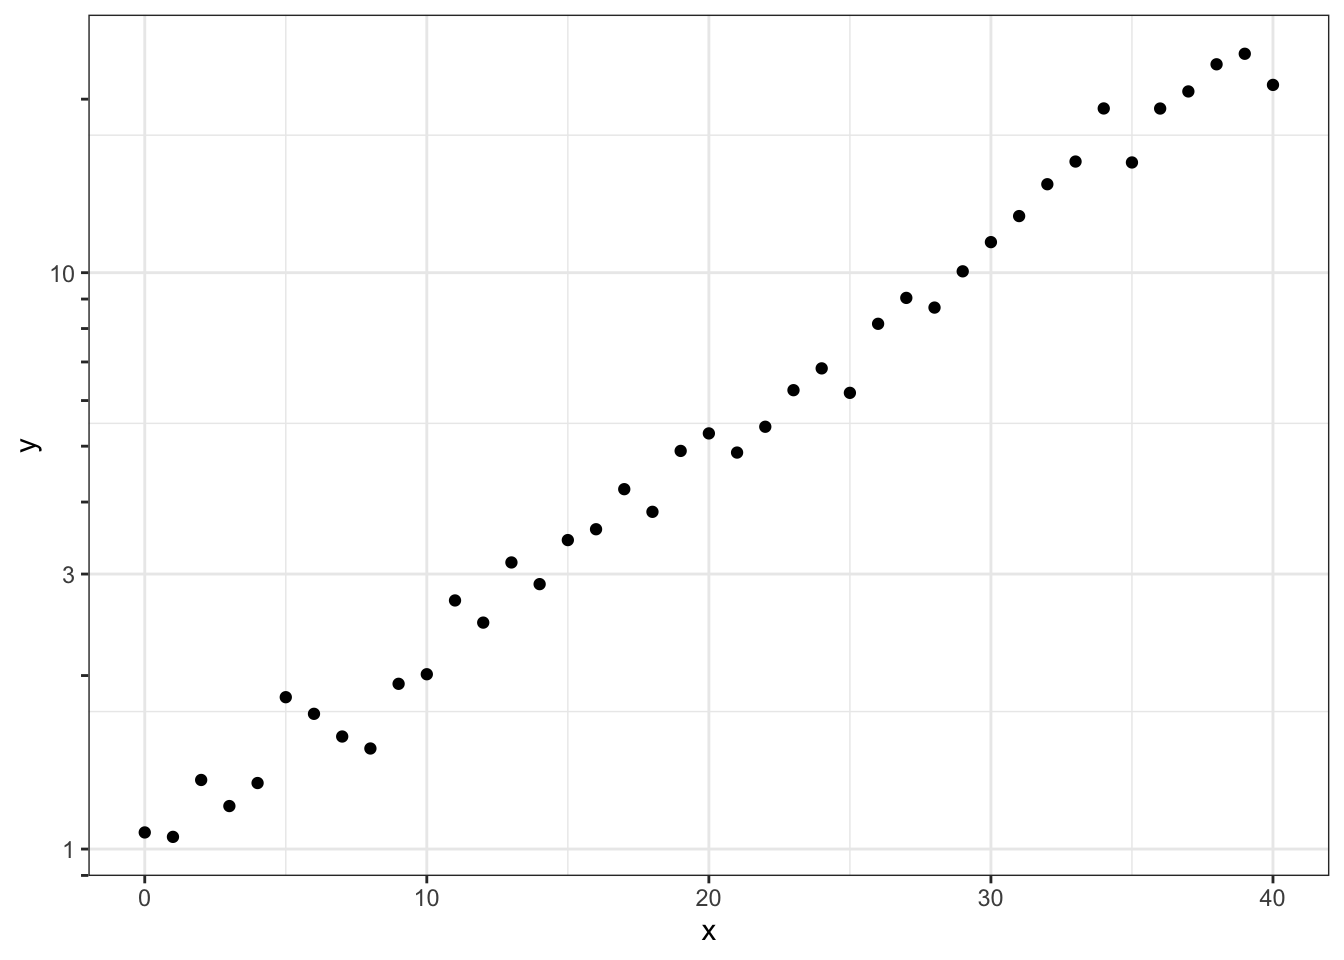
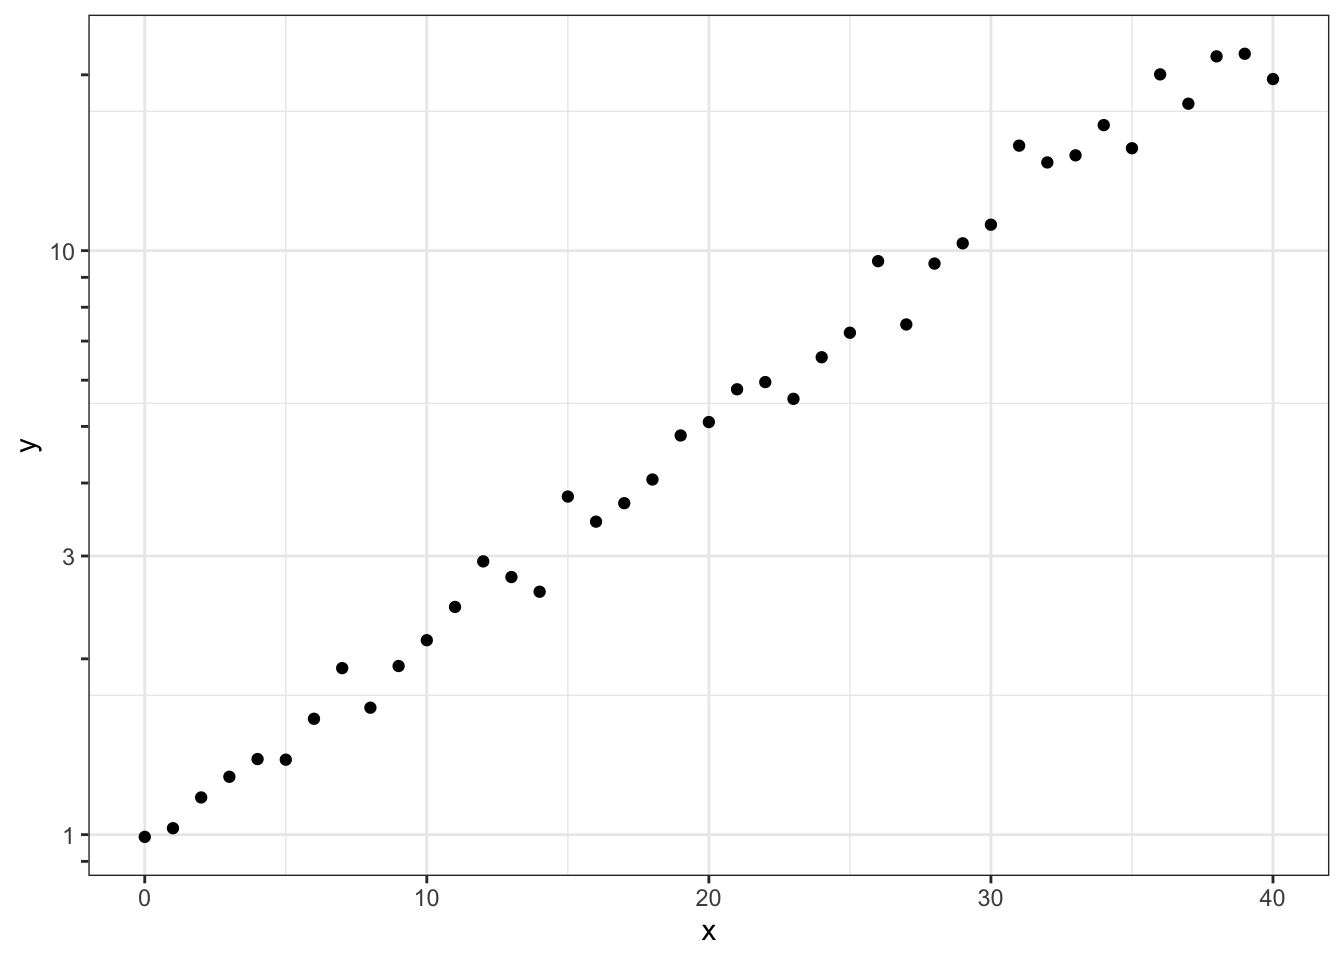
new exercise

diff --git a/docs/materials/positconf2024-themes.html b/docs/materials/positconf2024-themes.html
@@ -335,12 +335,12 @@ pre > code.sourceCode > span > a:first-child::before { text-decoration: underlin
 <p>For logarithmic axes, there is a new guide <code>guide_axis_logticks()</code> that places minor ticks with log spacing.</p>
 <div class="cell">
 <div class="sourceCode cell-code" id="cb26"><pre class="sourceCode r code-with-copy"><code class="sourceCode r"><span id="cb26-1"><a href="#cb26-1" aria-hidden="true" tabindex="-1"></a><span class="co"># made-up data that follows exponential growth</span></span>
-<span id="cb26-2"><a href="#cb26-2" aria-hidden="true" tabindex="-1"></a>data <span class="ot">&lt;-</span> <span class="fu">tibble</span>(<span class="at">x =</span> <span class="dv">0</span><span class="sc">:</span><span class="dv">40</span>) <span class="sc">|&gt;</span></span>
+<span id="cb26-2"><a href="#cb26-2" aria-hidden="true" tabindex="-1"></a>exp_data <span class="ot">&lt;-</span> <span class="fu">tibble</span>(<span class="at">x =</span> <span class="dv">0</span><span class="sc">:</span><span class="dv">40</span>) <span class="sc">|&gt;</span></span>
 <span id="cb26-3"><a href="#cb26-3" aria-hidden="true" tabindex="-1"></a>  <span class="fu">mutate</span>(</span>
 <span id="cb26-4"><a href="#cb26-4" aria-hidden="true" tabindex="-1"></a>    <span class="at">y =</span> <span class="fu">exp</span>(<span class="fl">0.08</span> <span class="sc">*</span> x <span class="sc">+</span> <span class="fl">0.1</span> <span class="sc">*</span> <span class="fu">rnorm</span>(<span class="fu">length</span>(x)))</span>
 <span id="cb26-5"><a href="#cb26-5" aria-hidden="true" tabindex="-1"></a>  )</span>
 <span id="cb26-6"><a href="#cb26-6" aria-hidden="true" tabindex="-1"></a></span>
-<span id="cb26-7"><a href="#cb26-7" aria-hidden="true" tabindex="-1"></a><span class="fu">ggplot</span>(data, <span class="fu">aes</span>(x, y)) <span class="sc">+</span></span>
+<span id="cb26-7"><a href="#cb26-7" aria-hidden="true" tabindex="-1"></a><span class="fu">ggplot</span>(exp_data, <span class="fu">aes</span>(x, y)) <span class="sc">+</span></span>
 <span id="cb26-8"><a href="#cb26-8" aria-hidden="true" tabindex="-1"></a>  <span class="fu">geom_point</span>() <span class="sc">+</span></span>
 <span id="cb26-9"><a href="#cb26-9" aria-hidden="true" tabindex="-1"></a>  <span class="fu">theme_bw</span>() <span class="sc">+</span></span>
 <span id="cb26-10"><a href="#cb26-10" aria-hidden="true" tabindex="-1"></a>  <span class="fu">scale_y_log10</span>(</span>
@@ -357,7 +357,7 @@ pre > code.sourceCode > span > a:first-child::before { text-decoration: underlin
 </div>
 <p>However, as you can see, the axis ticks don’t line up with the minor grid lines. Therefore, it is best to just turn off the minor grid lines.</p>
 <div class="cell">
-<div class="sourceCode cell-code" id="cb27"><pre class="sourceCode r code-with-copy"><code class="sourceCode r"><span id="cb27-1"><a href="#cb27-1" aria-hidden="true" tabindex="-1"></a><span class="fu">ggplot</span>(data, <span class="fu">aes</span>(x, y)) <span class="sc">+</span></span>
+<div class="sourceCode cell-code" id="cb27"><pre class="sourceCode r code-with-copy"><code class="sourceCode r"><span id="cb27-1"><a href="#cb27-1" aria-hidden="true" tabindex="-1"></a><span class="fu">ggplot</span>(exp_data, <span class="fu">aes</span>(x, y)) <span class="sc">+</span></span>
 <span id="cb27-2"><a href="#cb27-2" aria-hidden="true" tabindex="-1"></a>  <span class="fu">geom_point</span>() <span class="sc">+</span></span>
 <span id="cb27-3"><a href="#cb27-3" aria-hidden="true" tabindex="-1"></a>  <span class="fu">theme_bw</span>() <span class="sc">+</span></span>
 <span id="cb27-4"><a href="#cb27-4" aria-hidden="true" tabindex="-1"></a>  <span class="fu">scale_y_log10</span>(</span>
@@ -395,6 +395,23 @@ pre > code.sourceCode > span > a:first-child::before { text-decoration: underlin
 <span id="cb29-3"><a href="#cb29-3" aria-hidden="true" tabindex="-1"></a>  <span class="fu">facet_wrap</span>(<span class="sc">~</span>cut)</span></code><button title="Copy to Clipboard" class="code-copy-button"><i class="bi"></i></button></pre></div>
 <div class="cell-output-display">
 <p><img src="positconf2024-themes_files/figure-html/unnamed-chunk-22-1.png" class="img-fluid" width="672"></p>
+</div>
+</div>
+<p>Adjust the minor grid lines in this plot to match the log ticks.</p>
+<div class="cell">
+<div class="sourceCode cell-code" id="cb30"><pre class="sourceCode r code-with-copy"><code class="sourceCode r"><span id="cb30-1"><a href="#cb30-1" aria-hidden="true" tabindex="-1"></a><span class="fu">ggplot</span>(exp_data, <span class="fu">aes</span>(x, y)) <span class="sc">+</span></span>
+<span id="cb30-2"><a href="#cb30-2" aria-hidden="true" tabindex="-1"></a>  <span class="fu">geom_point</span>() <span class="sc">+</span></span>
+<span id="cb30-3"><a href="#cb30-3" aria-hidden="true" tabindex="-1"></a>  <span class="fu">theme_bw</span>() <span class="sc">+</span></span>
+<span id="cb30-4"><a href="#cb30-4" aria-hidden="true" tabindex="-1"></a>  <span class="fu">scale_y_log10</span>(</span>
+<span id="cb30-5"><a href="#cb30-5" aria-hidden="true" tabindex="-1"></a>    <span class="at">guide =</span> <span class="fu">guide_axis_logticks</span>(</span>
+<span id="cb30-6"><a href="#cb30-6" aria-hidden="true" tabindex="-1"></a>      <span class="co"># make major and minor ticks all the same length</span></span>
+<span id="cb30-7"><a href="#cb30-7" aria-hidden="true" tabindex="-1"></a>      <span class="at">long =</span> <span class="dv">1</span>,</span>
+<span id="cb30-8"><a href="#cb30-8" aria-hidden="true" tabindex="-1"></a>      <span class="at">mid =</span> <span class="dv">1</span>,</span>
+<span id="cb30-9"><a href="#cb30-9" aria-hidden="true" tabindex="-1"></a>      <span class="at">short =</span> <span class="dv">1</span></span>
+<span id="cb30-10"><a href="#cb30-10" aria-hidden="true" tabindex="-1"></a>    )</span>
+<span id="cb30-11"><a href="#cb30-11" aria-hidden="true" tabindex="-1"></a>  )</span></code><button title="Copy to Clipboard" class="code-copy-button"><i class="bi"></i></button></pre></div>
+<div class="cell-output-display">
+<p><img src="positconf2024-themes_files/figure-html/unnamed-chunk-23-1.png" class="img-fluid" width="672"></p>
 </div>
 </div>
 </section>

diff --git a/materials/positconf2024-themes.html b/materials/positconf2024-themes.html
@@ -335,12 +335,12 @@ pre > code.sourceCode > span > a:first-child::before { text-decoration: underlin
 <p>For logarithmic axes, there is a new guide <code>guide_axis_logticks()</code> that places minor ticks with log spacing.</p>
 <div class="cell">
 <div class="sourceCode cell-code" id="cb26"><pre class="sourceCode r code-with-copy"><code class="sourceCode r"><span id="cb26-1"><a href="#cb26-1" aria-hidden="true" tabindex="-1"></a><span class="co"># made-up data that follows exponential growth</span></span>
-<span id="cb26-2"><a href="#cb26-2" aria-hidden="true" tabindex="-1"></a>data <span class="ot">&lt;-</span> <span class="fu">tibble</span>(<span class="at">x =</span> <span class="dv">0</span><span class="sc">:</span><span class="dv">40</span>) <span class="sc">|&gt;</span></span>
+<span id="cb26-2"><a href="#cb26-2" aria-hidden="true" tabindex="-1"></a>exp_data <span class="ot">&lt;-</span> <span class="fu">tibble</span>(<span class="at">x =</span> <span class="dv">0</span><span class="sc">:</span><span class="dv">40</span>) <span class="sc">|&gt;</span></span>
 <span id="cb26-3"><a href="#cb26-3" aria-hidden="true" tabindex="-1"></a>  <span class="fu">mutate</span>(</span>
 <span id="cb26-4"><a href="#cb26-4" aria-hidden="true" tabindex="-1"></a>    <span class="at">y =</span> <span class="fu">exp</span>(<span class="fl">0.08</span> <span class="sc">*</span> x <span class="sc">+</span> <span class="fl">0.1</span> <span class="sc">*</span> <span class="fu">rnorm</span>(<span class="fu">length</span>(x)))</span>
 <span id="cb26-5"><a href="#cb26-5" aria-hidden="true" tabindex="-1"></a>  )</span>
 <span id="cb26-6"><a href="#cb26-6" aria-hidden="true" tabindex="-1"></a></span>
-<span id="cb26-7"><a href="#cb26-7" aria-hidden="true" tabindex="-1"></a><span class="fu">ggplot</span>(data, <span class="fu">aes</span>(x, y)) <span class="sc">+</span></span>
+<span id="cb26-7"><a href="#cb26-7" aria-hidden="true" tabindex="-1"></a><span class="fu">ggplot</span>(exp_data, <span class="fu">aes</span>(x, y)) <span class="sc">+</span></span>
 <span id="cb26-8"><a href="#cb26-8" aria-hidden="true" tabindex="-1"></a>  <span class="fu">geom_point</span>() <span class="sc">+</span></span>
 <span id="cb26-9"><a href="#cb26-9" aria-hidden="true" tabindex="-1"></a>  <span class="fu">theme_bw</span>() <span class="sc">+</span></span>
 <span id="cb26-10"><a href="#cb26-10" aria-hidden="true" tabindex="-1"></a>  <span class="fu">scale_y_log10</span>(</span>
@@ -357,7 +357,7 @@ pre > code.sourceCode > span > a:first-child::before { text-decoration: underlin
 </div>
 <p>However, as you can see, the axis ticks don’t line up with the minor grid lines. Therefore, it is best to just turn off the minor grid lines.</p>
 <div class="cell">
-<div class="sourceCode cell-code" id="cb27"><pre class="sourceCode r code-with-copy"><code class="sourceCode r"><span id="cb27-1"><a href="#cb27-1" aria-hidden="true" tabindex="-1"></a><span class="fu">ggplot</span>(data, <span class="fu">aes</span>(x, y)) <span class="sc">+</span></span>
+<div class="sourceCode cell-code" id="cb27"><pre class="sourceCode r code-with-copy"><code class="sourceCode r"><span id="cb27-1"><a href="#cb27-1" aria-hidden="true" tabindex="-1"></a><span class="fu">ggplot</span>(exp_data, <span class="fu">aes</span>(x, y)) <span class="sc">+</span></span>
 <span id="cb27-2"><a href="#cb27-2" aria-hidden="true" tabindex="-1"></a>  <span class="fu">geom_point</span>() <span class="sc">+</span></span>
 <span id="cb27-3"><a href="#cb27-3" aria-hidden="true" tabindex="-1"></a>  <span class="fu">theme_bw</span>() <span class="sc">+</span></span>
 <span id="cb27-4"><a href="#cb27-4" aria-hidden="true" tabindex="-1"></a>  <span class="fu">scale_y_log10</span>(</span>
@@ -395,6 +395,23 @@ pre > code.sourceCode > span > a:first-child::before { text-decoration: underlin
 <span id="cb29-3"><a href="#cb29-3" aria-hidden="true" tabindex="-1"></a>  <span class="fu">facet_wrap</span>(<span class="sc">~</span>cut)</span></code><button title="Copy to Clipboard" class="code-copy-button"><i class="bi"></i></button></pre></div>
 <div class="cell-output-display">
 <p><img src="positconf2024-themes_files/figure-html/unnamed-chunk-22-1.png" class="img-fluid" width="672"></p>
+</div>
+</div>
+<p>Adjust the minor grid lines in this plot to match the log ticks.</p>
+<div class="cell">
+<div class="sourceCode cell-code" id="cb30"><pre class="sourceCode r code-with-copy"><code class="sourceCode r"><span id="cb30-1"><a href="#cb30-1" aria-hidden="true" tabindex="-1"></a><span class="fu">ggplot</span>(exp_data, <span class="fu">aes</span>(x, y)) <span class="sc">+</span></span>
+<span id="cb30-2"><a href="#cb30-2" aria-hidden="true" tabindex="-1"></a>  <span class="fu">geom_point</span>() <span class="sc">+</span></span>
+<span id="cb30-3"><a href="#cb30-3" aria-hidden="true" tabindex="-1"></a>  <span class="fu">theme_bw</span>() <span class="sc">+</span></span>
+<span id="cb30-4"><a href="#cb30-4" aria-hidden="true" tabindex="-1"></a>  <span class="fu">scale_y_log10</span>(</span>
+<span id="cb30-5"><a href="#cb30-5" aria-hidden="true" tabindex="-1"></a>    <span class="at">guide =</span> <span class="fu">guide_axis_logticks</span>(</span>
+<span id="cb30-6"><a href="#cb30-6" aria-hidden="true" tabindex="-1"></a>      <span class="co"># make major and minor ticks all the same length</span></span>
+<span id="cb30-7"><a href="#cb30-7" aria-hidden="true" tabindex="-1"></a>      <span class="at">long =</span> <span class="dv">1</span>,</span>
+<span id="cb30-8"><a href="#cb30-8" aria-hidden="true" tabindex="-1"></a>      <span class="at">mid =</span> <span class="dv">1</span>,</span>
+<span id="cb30-9"><a href="#cb30-9" aria-hidden="true" tabindex="-1"></a>      <span class="at">short =</span> <span class="dv">1</span></span>
+<span id="cb30-10"><a href="#cb30-10" aria-hidden="true" tabindex="-1"></a>    )</span>
+<span id="cb30-11"><a href="#cb30-11" aria-hidden="true" tabindex="-1"></a>  )</span></code><button title="Copy to Clipboard" class="code-copy-button"><i class="bi"></i></button></pre></div>
+<div class="cell-output-display">
+<p><img src="positconf2024-themes_files/figure-html/unnamed-chunk-23-1.png" class="img-fluid" width="672"></p>
 </div>
 </div>
 </section>

diff --git a/docs/materials/positconf2024-themes-solutions.html b/docs/materials/positconf2024-themes-solutions.html
@@ -197,6 +197,34 @@ pre > code.sourceCode > span > a:first-child::before { text-decoration: underlin
 <p><img src="positconf2024-themes-solutions_files/figure-html/unnamed-chunk-6-1.png" class="img-fluid" width="672"></p>
 </div>
 </div>
+<p>Adjust the minor grid lines in this plot to match the log ticks.</p>
+<div class="cell">
+<div class="sourceCode cell-code" id="cb7"><pre class="sourceCode r code-with-copy"><code class="sourceCode r"><span id="cb7-1"><a href="#cb7-1" aria-hidden="true" tabindex="-1"></a><span class="co"># made-up data that follows exponential growth</span></span>
+<span id="cb7-2"><a href="#cb7-2" aria-hidden="true" tabindex="-1"></a>exp_data <span class="ot">&lt;-</span> <span class="fu">tibble</span>(<span class="at">x =</span> <span class="dv">0</span><span class="sc">:</span><span class="dv">40</span>) <span class="sc">|&gt;</span></span>
+<span id="cb7-3"><a href="#cb7-3" aria-hidden="true" tabindex="-1"></a>  <span class="fu">mutate</span>(</span>
+<span id="cb7-4"><a href="#cb7-4" aria-hidden="true" tabindex="-1"></a>    <span class="at">y =</span> <span class="fu">exp</span>(<span class="fl">0.08</span> <span class="sc">*</span> x <span class="sc">+</span> <span class="fl">0.1</span> <span class="sc">*</span> <span class="fu">rnorm</span>(<span class="fu">length</span>(x)))</span>
+<span id="cb7-5"><a href="#cb7-5" aria-hidden="true" tabindex="-1"></a>  )</span>
+<span id="cb7-6"><a href="#cb7-6" aria-hidden="true" tabindex="-1"></a></span>
+<span id="cb7-7"><a href="#cb7-7" aria-hidden="true" tabindex="-1"></a><span class="fu">ggplot</span>(exp_data, <span class="fu">aes</span>(x, y)) <span class="sc">+</span></span>
+<span id="cb7-8"><a href="#cb7-8" aria-hidden="true" tabindex="-1"></a>  <span class="fu">geom_point</span>() <span class="sc">+</span></span>
+<span id="cb7-9"><a href="#cb7-9" aria-hidden="true" tabindex="-1"></a>  <span class="fu">theme_bw</span>() <span class="sc">+</span></span>
+<span id="cb7-10"><a href="#cb7-10" aria-hidden="true" tabindex="-1"></a>  <span class="fu">scale_y_log10</span>(</span>
+<span id="cb7-11"><a href="#cb7-11" aria-hidden="true" tabindex="-1"></a>    <span class="co"># sometimes the simplest solution</span></span>
+<span id="cb7-12"><a href="#cb7-12" aria-hidden="true" tabindex="-1"></a>    <span class="co"># is a quick manual fix</span></span>
+<span id="cb7-13"><a href="#cb7-13" aria-hidden="true" tabindex="-1"></a>    <span class="at">minor_breaks =</span> <span class="fu">c</span>(</span>
+<span id="cb7-14"><a href="#cb7-14" aria-hidden="true" tabindex="-1"></a>      .<span class="dv">8</span>, .<span class="dv">9</span>, <span class="dv">2</span>, <span class="dv">4</span>, <span class="dv">5</span>, <span class="dv">6</span>, <span class="dv">7</span>, <span class="dv">8</span>, <span class="dv">9</span>, <span class="dv">20</span></span>
+<span id="cb7-15"><a href="#cb7-15" aria-hidden="true" tabindex="-1"></a>    ),</span>
+<span id="cb7-16"><a href="#cb7-16" aria-hidden="true" tabindex="-1"></a>    <span class="at">guide =</span> <span class="fu">guide_axis_logticks</span>(</span>
+<span id="cb7-17"><a href="#cb7-17" aria-hidden="true" tabindex="-1"></a>      <span class="co"># make major and minor ticks all the same length</span></span>
+<span id="cb7-18"><a href="#cb7-18" aria-hidden="true" tabindex="-1"></a>      <span class="at">long =</span> <span class="dv">1</span>,</span>
+<span id="cb7-19"><a href="#cb7-19" aria-hidden="true" tabindex="-1"></a>      <span class="at">mid =</span> <span class="dv">1</span>,</span>
+<span id="cb7-20"><a href="#cb7-20" aria-hidden="true" tabindex="-1"></a>      <span class="at">short =</span> <span class="dv">1</span></span>
+<span id="cb7-21"><a href="#cb7-21" aria-hidden="true" tabindex="-1"></a>    )</span>
+<span id="cb7-22"><a href="#cb7-22" aria-hidden="true" tabindex="-1"></a>  )</span></code><button title="Copy to Clipboard" class="code-copy-button"><i class="bi"></i></button></pre></div>
+<div class="cell-output-display">
+<p><img src="positconf2024-themes-solutions_files/figure-html/unnamed-chunk-7-1.png" class="img-fluid" width="672"></p>
+</div>
+</div>
 </section>
 
 </main>

diff --git a/materials/positconf2024-themes-solutions.html b/materials/positconf2024-themes-solutions.html
@@ -197,6 +197,34 @@ pre > code.sourceCode > span > a:first-child::before { text-decoration: underlin
 <p><img src="positconf2024-themes-solutions_files/figure-html/unnamed-chunk-6-1.png" class="img-fluid" width="672"></p>
 </div>
 </div>
+<p>Adjust the minor grid lines in this plot to match the log ticks.</p>
+<div class="cell">
+<div class="sourceCode cell-code" id="cb7"><pre class="sourceCode r code-with-copy"><code class="sourceCode r"><span id="cb7-1"><a href="#cb7-1" aria-hidden="true" tabindex="-1"></a><span class="co"># made-up data that follows exponential growth</span></span>
+<span id="cb7-2"><a href="#cb7-2" aria-hidden="true" tabindex="-1"></a>exp_data <span class="ot">&lt;-</span> <span class="fu">tibble</span>(<span class="at">x =</span> <span class="dv">0</span><span class="sc">:</span><span class="dv">40</span>) <span class="sc">|&gt;</span></span>
+<span id="cb7-3"><a href="#cb7-3" aria-hidden="true" tabindex="-1"></a>  <span class="fu">mutate</span>(</span>
+<span id="cb7-4"><a href="#cb7-4" aria-hidden="true" tabindex="-1"></a>    <span class="at">y =</span> <span class="fu">exp</span>(<span class="fl">0.08</span> <span class="sc">*</span> x <span class="sc">+</span> <span class="fl">0.1</span> <span class="sc">*</span> <span class="fu">rnorm</span>(<span class="fu">length</span>(x)))</span>
+<span id="cb7-5"><a href="#cb7-5" aria-hidden="true" tabindex="-1"></a>  )</span>
+<span id="cb7-6"><a href="#cb7-6" aria-hidden="true" tabindex="-1"></a></span>
+<span id="cb7-7"><a href="#cb7-7" aria-hidden="true" tabindex="-1"></a><span class="fu">ggplot</span>(exp_data, <span class="fu">aes</span>(x, y)) <span class="sc">+</span></span>
+<span id="cb7-8"><a href="#cb7-8" aria-hidden="true" tabindex="-1"></a>  <span class="fu">geom_point</span>() <span class="sc">+</span></span>
+<span id="cb7-9"><a href="#cb7-9" aria-hidden="true" tabindex="-1"></a>  <span class="fu">theme_bw</span>() <span class="sc">+</span></span>
+<span id="cb7-10"><a href="#cb7-10" aria-hidden="true" tabindex="-1"></a>  <span class="fu">scale_y_log10</span>(</span>
+<span id="cb7-11"><a href="#cb7-11" aria-hidden="true" tabindex="-1"></a>    <span class="co"># sometimes the simplest solution</span></span>
+<span id="cb7-12"><a href="#cb7-12" aria-hidden="true" tabindex="-1"></a>    <span class="co"># is a quick manual fix</span></span>
+<span id="cb7-13"><a href="#cb7-13" aria-hidden="true" tabindex="-1"></a>    <span class="at">minor_breaks =</span> <span class="fu">c</span>(</span>
+<span id="cb7-14"><a href="#cb7-14" aria-hidden="true" tabindex="-1"></a>      .<span class="dv">8</span>, .<span class="dv">9</span>, <span class="dv">2</span>, <span class="dv">4</span>, <span class="dv">5</span>, <span class="dv">6</span>, <span class="dv">7</span>, <span class="dv">8</span>, <span class="dv">9</span>, <span class="dv">20</span></span>
+<span id="cb7-15"><a href="#cb7-15" aria-hidden="true" tabindex="-1"></a>    ),</span>
+<span id="cb7-16"><a href="#cb7-16" aria-hidden="true" tabindex="-1"></a>    <span class="at">guide =</span> <span class="fu">guide_axis_logticks</span>(</span>
+<span id="cb7-17"><a href="#cb7-17" aria-hidden="true" tabindex="-1"></a>      <span class="co"># make major and minor ticks all the same length</span></span>
+<span id="cb7-18"><a href="#cb7-18" aria-hidden="true" tabindex="-1"></a>      <span class="at">long =</span> <span class="dv">1</span>,</span>
+<span id="cb7-19"><a href="#cb7-19" aria-hidden="true" tabindex="-1"></a>      <span class="at">mid =</span> <span class="dv">1</span>,</span>
+<span id="cb7-20"><a href="#cb7-20" aria-hidden="true" tabindex="-1"></a>      <span class="at">short =</span> <span class="dv">1</span></span>
+<span id="cb7-21"><a href="#cb7-21" aria-hidden="true" tabindex="-1"></a>    )</span>
+<span id="cb7-22"><a href="#cb7-22" aria-hidden="true" tabindex="-1"></a>  )</span></code><button title="Copy to Clipboard" class="code-copy-button"><i class="bi"></i></button></pre></div>
+<div class="cell-output-display">
+<p><img src="positconf2024-themes-solutions_files/figure-html/unnamed-chunk-7-1.png" class="img-fluid" width="672"></p>
+</div>
+</div>
 </section>
 
 </main>
